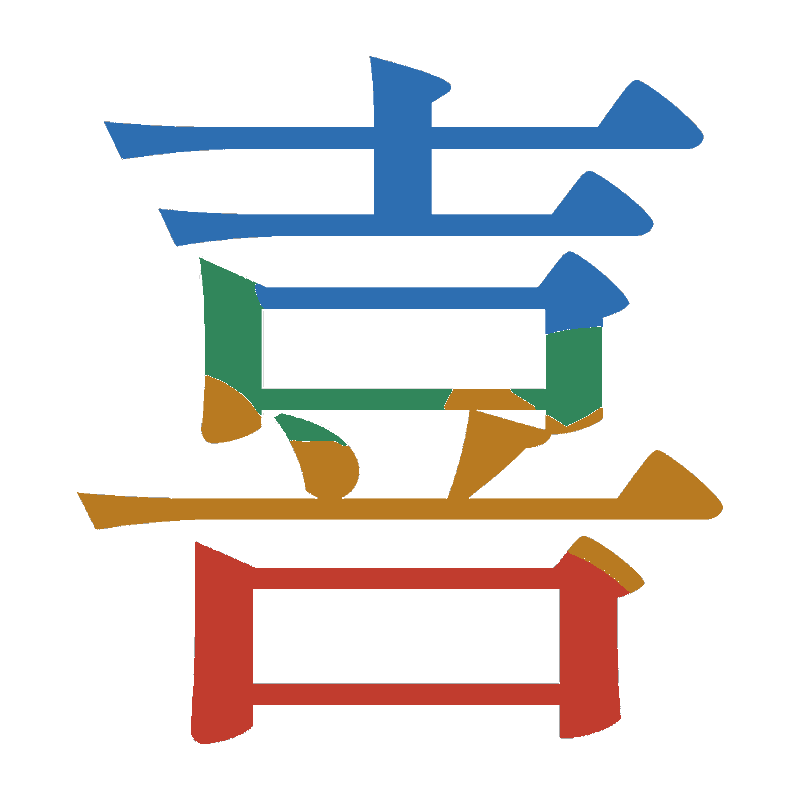
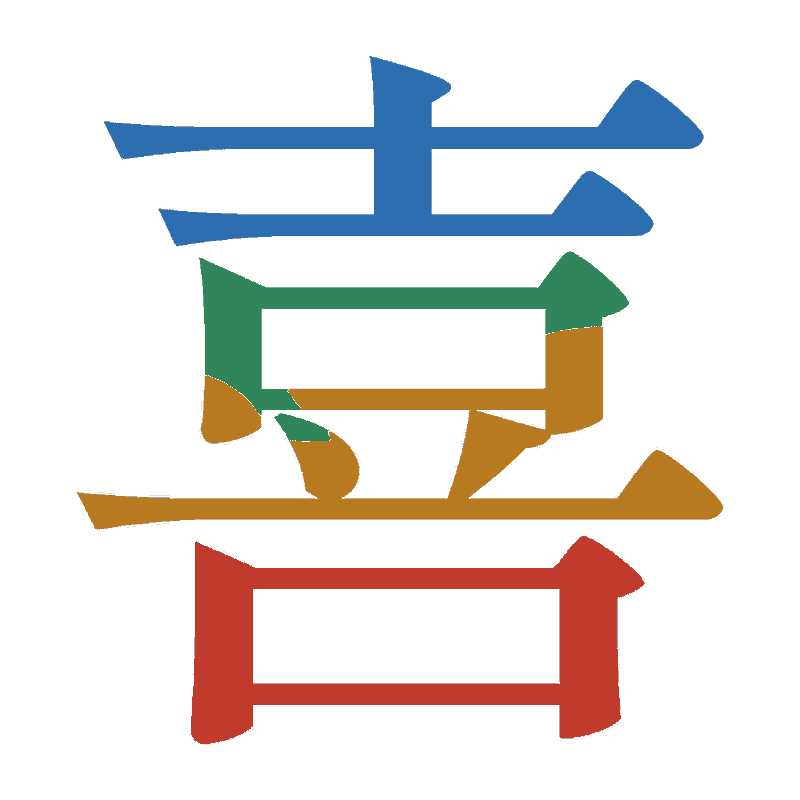
Clip stroke masks to centre-line box; rebuild all with versioned image URLs

Changed region(s): [[0.3125, 0.3125, 0.7812, 0.5312], [0.3438, 0.4688, 0.5625, 0.5625], [0.7188, 0.6562, 0.8125, 0.75]]

diff --git a/index.html b/index.html
@@ -205,21 +205,21 @@ footer a{color:var(--p1);text-decoration:none;border-bottom:1px solid rgba(43,10
         <ul class="parts"><li><span class="dot" style="background:#c0392b"></span><span class="pname">日</span><span class="ptag">部首</span></li><li><span class="dot" style="background:#2b6cb0"></span><span class="pname">月</span><span class="ptag">部件</span></li></ul>
       </article>
       <article class="ex-card">
-        <div class="ex-glyph"><img src="assets/examples/28246.png?v=023bf3e4" alt="「湖」左中右結構" width="800" height="800" loading="lazy"></div>
+        <div class="ex-glyph"><img src="assets/examples/28246.png?v=47a9ab4a" alt="「湖」左中右結構" width="800" height="800" loading="lazy"></div>
         <h3>左中右結構</h3>
         <p class="ex-note">三部分由左至右排列。</p>
         <div class="ex-sample">例字　<b>湖</b>　<span class="rad">部首：水（氵）</span></div>
         <ul class="parts"><li><span class="dot" style="background:#c0392b"></span><span class="pname">氵</span><span class="ptag">部首</span></li><li><span class="dot" style="background:#2b6cb0"></span><span class="pname">古</span><span class="ptag">部件</span></li><li><span class="dot" style="background:#2f855a"></span><span class="pname">月</span><span class="ptag">部件</span></li></ul>
       </article>
       <article class="ex-card">
-        <div class="ex-glyph"><img src="assets/examples/24605.png?v=c475be15" alt="「思」上下結構" width="800" height="800" loading="lazy"></div>
+        <div class="ex-glyph"><img src="assets/examples/24605.png?v=e7c30d17" alt="「思」上下結構" width="800" height="800" loading="lazy"></div>
         <h3>上下結構</h3>
         <p class="ex-note">上下相疊。</p>
         <div class="ex-sample">例字　<b>思</b>　<span class="rad">部首：心</span></div>
         <ul class="parts"><li><span class="dot" style="background:#2b6cb0"></span><span class="pname">田</span><span class="ptag">部件</span></li><li><span class="dot" style="background:#c0392b"></span><span class="pname">心</span><span class="ptag">部首</span></li></ul>
       </article>
       <article class="ex-card">
-        <div class="ex-glyph"><img src="assets/examples/24847.png?v=bfce4dd7" alt="「意」上中下結構" width="800" height="800" loading="lazy"></div>
+        <div class="ex-glyph"><img src="assets/examples/24847.png?v=55a277b4" alt="「意」上中下結構" width="800" height="800" loading="lazy"></div>
         <h3>上中下結構</h3>
         <p class="ex-note">三部分由上至下相疊。</p>
         <div class="ex-sample">例字　<b>意</b>　<span class="rad">部首：心</span></div>
@@ -233,14 +233,14 @@ footer a{color:var(--p1);text-decoration:none;border-bottom:1px solid rgba(43,10
         <ul class="parts"><li><span class="dot" style="background:#c0392b"></span><span class="pname">口</span><span class="ptag">部首</span></li><li><span class="dot" style="background:#2b6cb0"></span><span class="pname">口</span><span class="ptag">部件</span></li><li><span class="dot" style="background:#2f855a"></span><span class="pname">口</span><span class="ptag">部件</span></li></ul>
       </article>
       <article class="ex-card">
-        <div class="ex-glyph"><img src="assets/examples/22283.png?v=c43b9f36" alt="「國」全包圍結構" width="800" height="800" loading="lazy"></div>
+        <div class="ex-glyph"><img src="assets/examples/22283.png?v=13b1a120" alt="「國」全包圍結構" width="800" height="800" loading="lazy"></div>
         <h3>全包圍結構</h3>
         <p class="ex-note">外框四面圍住內部件。</p>
         <div class="ex-sample">例字　<b>國</b>　<span class="rad">部首：囗</span></div>
         <ul class="parts"><li><span class="dot" style="background:#c0392b"></span><span class="pname">囗</span><span class="ptag">部首</span></li><li><span class="dot" style="background:#2b6cb0"></span><span class="pname">或</span><span class="ptag">部件</span></li></ul>
       </article>
       <article class="ex-card">
-        <div class="ex-glyph"><img src="assets/examples/38275.png?v=2b48106d" alt="「閃」三面包圍結構" width="800" height="800" loading="lazy"></div>
+        <div class="ex-glyph"><img src="assets/examples/38275.png?v=289f5a43" alt="「閃」三面包圍結構" width="800" height="800" loading="lazy"></div>
         <h3>三面包圍結構</h3>
         <p class="ex-note">上、左、右三面包住內部件。</p>
         <div class="ex-sample">例字　<b>閃</b>　<span class="rad">部首：門</span></div>
@@ -321,7 +321,7 @@ footer a{color:var(--p1);text-decoration:none;border-bottom:1px solid rgba(43,10
       </article>
       <article class="card" data-group="左右結構" data-i="4">
         <button class="glyph" type="button" aria-label="放大「場」">
-          <img src="assets/chars/22580.png?v=89cd55aa" alt="「場」部件分色圖" width="800" height="800" loading="lazy">
+          <img src="assets/chars/22580.png?v=5b2d8514" alt="「場」部件分色圖" width="800" height="800" loading="lazy">
         </button>
         <div class="card-body">
           <div class="card-head">
@@ -334,7 +334,7 @@ footer a{color:var(--p1);text-decoration:none;border-bottom:1px solid rgba(43,10
       </article>
       <article class="card" data-group="上下結構" data-i="5">
         <button class="glyph" type="button" aria-label="放大「籃」">
-          <img src="assets/chars/31811.png?v=b3aa96d7" alt="「籃」部件分色圖" width="800" height="800" loading="lazy">
+          <img src="assets/chars/31811.png?v=2259fa72" alt="「籃」部件分色圖" width="800" height="800" loading="lazy">
         </button>
         <div class="card-body">
           <div class="card-head">
@@ -360,7 +360,7 @@ footer a{color:var(--p1);text-decoration:none;border-bottom:1px solid rgba(43,10
       </article>
       <article class="card" data-group="上下結構" data-i="7">
         <button class="glyph" type="button" aria-label="放大「架」">
-          <img src="assets/chars/26550.png?v=933f37f7" alt="「架」部件分色圖" width="800" height="800" loading="lazy">
+          <img src="assets/chars/26550.png?v=51940cf9" alt="「架」部件分色圖" width="800" height="800" loading="lazy">
         </button>
         <div class="card-body">
           <div class="card-head">
@@ -399,7 +399,7 @@ footer a{color:var(--p1);text-decoration:none;border-bottom:1px solid rgba(43,10
       </article>
       <article class="card" data-group="上中下結構" data-i="10">
         <button class="glyph" type="button" aria-label="放大「喜」">
-          <img src="assets/chars/21916.png?v=6e515ce9" alt="「喜」部件分色圖" width="800" height="800" loading="lazy">
+          <img src="assets/chars/21916.png?v=e9713a21" alt="「喜」部件分色圖" width="800" height="800" loading="lazy">
         </button>
         <div class="card-body">
           <div class="card-head">
@@ -438,7 +438,7 @@ footer a{color:var(--p1);text-decoration:none;border-bottom:1px solid rgba(43,10
       </article>
       <article class="card" data-group="上下結構" data-i="13">
         <button class="glyph" type="button" aria-label="放大「拿」">
-          <img src="assets/chars/25343.png?v=d852e06d" alt="「拿」部件分色圖" width="800" height="800" loading="lazy">
+          <img src="assets/chars/25343.png?v=5a7c3cb7" alt="「拿」部件分色圖" width="800" height="800" loading="lazy">
         </button>
         <div class="card-body">
           <div class="card-head">
@@ -451,7 +451,7 @@ footer a{color:var(--p1);text-decoration:none;border-bottom:1px solid rgba(43,10
       </article>
       <article class="card" data-group="上下結構" data-i="14">
         <button class="glyph" type="button" aria-label="放大「幫」">
-          <img src="assets/chars/24171.png?v=058dcf93" alt="「幫」部件分色圖" width="800" height="800" loading="lazy">
+          <img src="assets/chars/24171.png?v=2bb08fa7" alt="「幫」部件分色圖" width="800" height="800" loading="lazy">
         </button>
         <div class="card-body">
           <div class="card-head">
@@ -581,7 +581,7 @@ footer a{color:var(--p1);text-decoration:none;border-bottom:1px solid rgba(43,10
       </article>
       <article class="card" data-group="上下結構" data-i="24">
         <button class="glyph" type="button" aria-label="放大「赤」">
-          <img src="assets/chars/36196.png?v=59a03358" alt="「赤」部件分色圖" width="800" height="800" loading="lazy">
+          <img src="assets/chars/36196.png?v=54429e62" alt="「赤」部件分色圖" width="800" height="800" loading="lazy">
         </button>
         <div class="card-body">
           <div class="card-head">
@@ -620,7 +620,7 @@ footer a{color:var(--p1);text-decoration:none;border-bottom:1px solid rgba(43,10
       </article>
       <article class="card" data-group="上下結構" data-i="27">
         <button class="glyph" type="button" aria-label="放大「興」">
-          <img src="assets/chars/33288.png?v=d4979c13" alt="「興」部件分色圖" width="800" height="800" loading="lazy">
+          <img src="assets/chars/33288.png?v=c5bc68b9" alt="「興」部件分色圖" width="800" height="800" loading="lazy">
         </button>
         <div class="card-body">
           <div class="card-head">
@@ -646,7 +646,7 @@ footer a{color:var(--p1);text-decoration:none;border-bottom:1px solid rgba(43,10
       </article>
       <article class="card" data-group="上下結構" data-i="29">
         <button class="glyph" type="button" aria-label="放大「烈」">
-          <img src="assets/chars/28872.png?v=8a34e529" alt="「烈」部件分色圖" width="800" height="800" loading="lazy">
+          <img src="assets/chars/28872.png?v=8d6c2b2e" alt="「烈」部件分色圖" width="800" height="800" loading="lazy">
         </button>
         <div class="card-body">
           <div class="card-head">
@@ -711,7 +711,7 @@ footer a{color:var(--p1);text-decoration:none;border-bottom:1px solid rgba(43,10
       </article>
       <article class="card" data-group="上下結構" data-i="34">
         <button class="glyph" type="button" aria-label="放大「聲」">
-          <img src="assets/chars/32882.png?v=5ac5804b" alt="「聲」部件分色圖" width="800" height="800" loading="lazy">
+          <img src="assets/chars/32882.png?v=d59dfd70" alt="「聲」部件分色圖" width="800" height="800" loading="lazy">
         </button>
         <div class="card-body">
           <div class="card-head">
@@ -737,7 +737,7 @@ footer a{color:var(--p1);text-decoration:none;border-bottom:1px solid rgba(43,10
       </article>
       <article class="card" data-group="左右結構" data-i="36">
         <button class="glyph" type="button" aria-label="放大「玩」">
-          <img src="assets/chars/29609.png?v=6740fb99" alt="「玩」部件分色圖" width="800" height="800" loading="lazy">
+          <img src="assets/chars/29609.png?v=0518e76b" alt="「玩」部件分色圖" width="800" height="800" loading="lazy">
         </button>
         <div class="card-body">
           <div class="card-head">

diff --git a/_src/build_parts4.py b/_src/build_parts4.py
@@ -231,6 +231,18 @@ def colorize(ch, parts, structure="", spans=None):
             pts = densify([to_px(p) for p in med], step=4.0)
             dr.line(pts, fill=255, width=max(8, int(0.085 * min(W, H))), joint="curve")
             m = np.array(layer) > 127
+        # A stroke body can never reach far outside its own centre line.  A few
+        # compound paths over-fill and would otherwise cover a neighbouring
+        # component's ink (this is what tinted 田's corner in 思), so clip every
+        # mask to its centre line's box plus a small margin.
+        pad = int(0.07 * min(W, H))
+        y0 = max(0, int(min(my)) - pad)
+        y1 = min(H, int(max(my)) + pad)
+        x0 = max(0, int(min(mx)) - pad)
+        x1 = min(W, int(max(mx)) + pad)
+        clip = np.zeros((H, W), bool)
+        clip[y0:y1, x0:x1] = True
+        m = m & clip
         m = ndimage.binary_dilation(m, np.ones((5, 5), bool))
         polys_masks.append(m)
 

diff --git a/_src/clean_final.py b/_src/clean_final.py
@@ -57,9 +57,12 @@ def clean(path, parts):
             m = mask_of[k]
             if not m.any():
                 continue
-            op = ndimage.binary_opening(m, FOUR)
+            # radius 2 (5x5 cross) is needed: a seam left by the resize is 2-4 px
+            # wide, so a 3x3 opening still lets it through.  No real stroke is that
+            # thin, so nothing legitimate is lost.
+            op = ndimage.binary_opening(m, ndimage.iterate_structure(FOUR, 2))
             lost = m & ~op
-            if lost.sum() == 0 or lost.sum() > 0.5 * m.sum():
+            if lost.sum() == 0 or lost.sum() > 0.35 * m.sum():
                 continue
             keep = alpha & ~lost
             if not keep.any():
